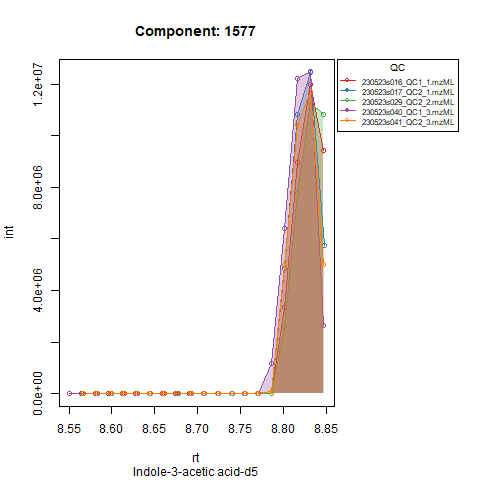
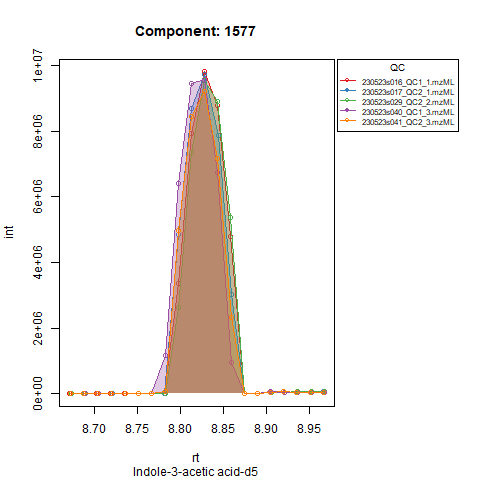
hotfix custom mass range

diff --git a/NEWS.md b/NEWS.md
@@ -15,3 +15,6 @@
 
 ## Changes in 0.1.3
 - Added functionality to tardisPeaks to allow MsExperiment object as input.
+
+## Changes in 0.1.4
+- hotfix custom mass range.
